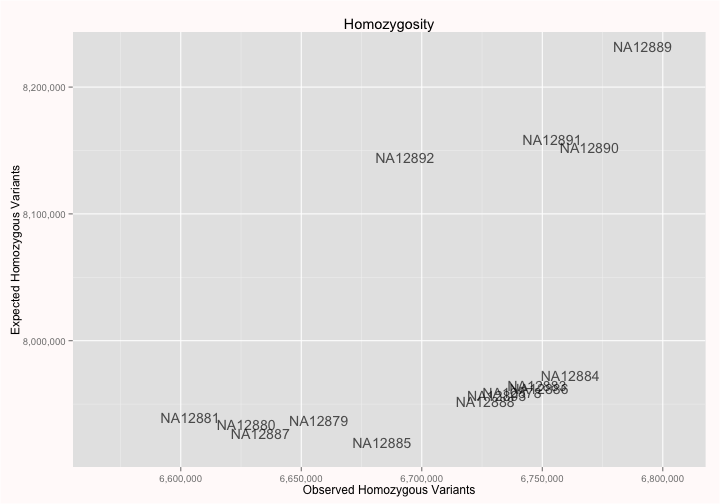
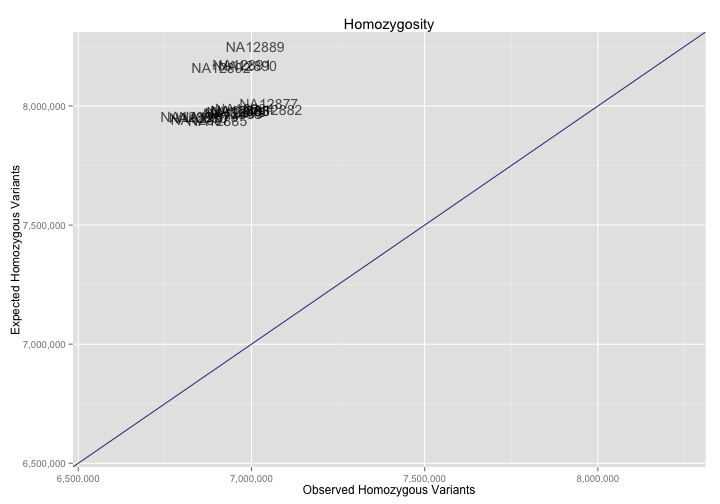
Minor updates to plots.

diff --git a/R/PlatinumGenomes-QC/Sample-Level-QC.md b/R/PlatinumGenomes-QC/Sample-Level-QC.md
@@ -86,7 +86,7 @@ Number of rows returned by this query: 17.
 
 Displaying the first few results:
 <!-- html table generated in R 3.1.2 by xtable 1.7-4 package -->
-<!-- Thu Feb 19 15:40:12 2015 -->
+<!-- Thu Feb 19 17:30:55 2015 -->
 <table border=1>
 <tr> <th> call_call_set_name </th> <th> no_calls </th> <th> all_calls </th> <th> missingness_rate </th>  </tr>
   <tr> <td> NA12877 </td> <td align="right"> 41927032 </td> <td align="right"> 2147483647 </td> <td align="right"> 0.01 </td> </tr>
@@ -102,8 +102,7 @@ And visualizing the results:
 ```r
 ggplot(result) +
   geom_point(aes(x=call_call_set_name, y=missingness_rate)) +
-  theme(plot.background=element_rect(fill="snow1"),
-        axis.text.x=if(nrow(result) <= 20)
+  theme(axis.text.x=if(nrow(result) <= 20)
     {element_text(angle=50, hjust=1)} else {element_blank()}) +
   scale_y_continuous(labels = percent_format()) +
   xlab("Sample") +
@@ -191,7 +190,7 @@ Number of rows returned by this query: 17.
 
 Displaying the first few results:
 <!-- html table generated in R 3.1.2 by xtable 1.7-4 package -->
-<!-- Thu Feb 19 15:40:15 2015 -->
+<!-- Thu Feb 19 17:31:00 2015 -->
 <table border=1>
 <tr> <th> call_call_set_name </th> <th> private_variant_count </th>  </tr>
   <tr> <td> NA12890 </td> <td align="right"> 418760 </td> </tr>
@@ -207,8 +206,7 @@ And visualizing the results:
 ```r
 ggplot(result) +
   geom_point(aes(x=call_call_set_name, y=private_variant_count)) +
-  theme(plot.background=element_rect(fill="snow1"),
-        axis.text.x=if(nrow(result) <= 20)
+  theme(axis.text.x=if(nrow(result) <= 20)
     {element_text(angle=50, hjust=1)} else {element_blank()}) +
   scale_y_continuous(labels=comma) +
   xlab("Sample") +
@@ -280,7 +278,7 @@ Number of rows returned by this query: 17.
 
 Displaying the first few results:
 <!-- html table generated in R 3.1.2 by xtable 1.7-4 package -->
-<!-- Thu Feb 19 15:40:20 2015 -->
+<!-- Thu Feb 19 17:31:03 2015 -->
 <table border=1>
 <tr> <th> call_call_set_name </th> <th> O_HOM </th> <th> E_HOM </th> <th> N_SITES </th> <th> F </th>  </tr>
   <tr> <td> NA12877 </td> <td align="right"> 6794394 </td> <td align="right"> 7988474.22 </td> <td align="right"> 10204968 </td> <td align="right"> -0.54 </td> </tr>
@@ -294,12 +292,13 @@ Displaying the first few results:
 And visualizing the results:
 
 ```r
+limits <- c(min(result$O_HOM, result$E_HOM),
+            max(result$O_HOM, result$E_HOM))
 ggplot(result) +
   geom_text(aes(x=O_HOM, y=E_HOM, label=call_call_set_name), alpha=1/1.5, hjust=-1, vjust=0) +
-  geom_abline() +
-  theme(plot.background=element_rect(fill="snow1")) +
-  scale_x_continuous(labels=comma) +
-  scale_y_continuous(labels=comma) +
+  geom_abline(color="darkslateblue") +
+  scale_x_continuous(limits=limits, labels=comma) +
+  scale_y_continuous(limits=limits, labels=comma) +
   xlab("Observed Homozygous Variants") +
   ylab("Expected Homozygous Variants") +
   ggtitle("Homozygosity")
@@ -358,7 +357,7 @@ Number of rows returned by this query: 17.
 
 Displaying the first few results:
 <!-- html table generated in R 3.1.2 by xtable 1.7-4 package -->
-<!-- Thu Feb 19 15:40:23 2015 -->
+<!-- Thu Feb 19 17:31:07 2015 -->
 <table border=1>
 <tr> <th> call_call_set_name </th> <th> perct_het_alt_in_snvs </th> <th> perct_hom_alt_in_snvs </th> <th> hom_AA_count </th> <th> het_RA_count </th> <th> hom_RR_count </th>  </tr>
   <tr> <td> NA12877 </td> <td align="right"> 0.32 </td> <td align="right"> 0.68 </td> <td align="right"> 79739 </td> <td align="right"> 37299 </td> <td align="right"> 212773 </td> </tr>
@@ -380,8 +379,7 @@ And visualize the results:
 ```r
 ggplot(joinedResult) +
   geom_point(aes(x=call_call_set_name, y=perct_het_alt_in_snvs, color=gender)) +
-  theme(plot.background=element_rect(fill="snow1"),
-        axis.text.x=if(nrow(result) <= 20)
+  theme(axis.text.x=if(nrow(result) <= 20)
     {element_text(angle=50, hjust=1)} else {element_blank()}) +
   scale_y_continuous(labels = percent_format()) +
   xlab("Sample") +
@@ -419,8 +417,7 @@ ggplot(ibs) +
   scale_fill_gradient(low="white", high="steelblue",
                       na.value="black", trans="log",
                       guide=guide_colourbar(title= "IBS Score")) +
-  theme(plot.background=element_rect(fill="snow1"),
-        axis.text.x=element_text(angle=50, hjust=1)) +
+  theme(axis.text.x=element_text(angle=50, hjust=1)) +
   xlab("Sample 1") +
   ylab("Sample 2") +
   ggtitle("Identity By State (IBS) Heat Map")

diff --git a/R/PlatinumGenomes-QC/Data-Conversion.md b/R/PlatinumGenomes-QC/Data-Conversion.md
@@ -30,7 +30,7 @@ Suppose we want to calculate an aggregate for a particular variant, such as the 
 
 > If you are working with Platinum Genomes its okay to skip ahead to [Part 3: Sample-Level QC](./Sample-Level-QC.md) which makes use of previously computed results from this cluster compute job.
 
-_Or if you are running this codelab against data that does not contain non-variant segments, this data conversion is unnecessary.  Just use the same BigQuery table for both `_THE_TABLE_` and `_THE_EXPANDED_TABLE_`._
+If you are running this codelab against data that does not contain non-variant segments, this data conversion is unnecessary.  Just use the same BigQuery table for both `_THE_TABLE_` and `_THE_EXPANDED_TABLE_`.
 
 ## Running the Cluster Compute Job
 
